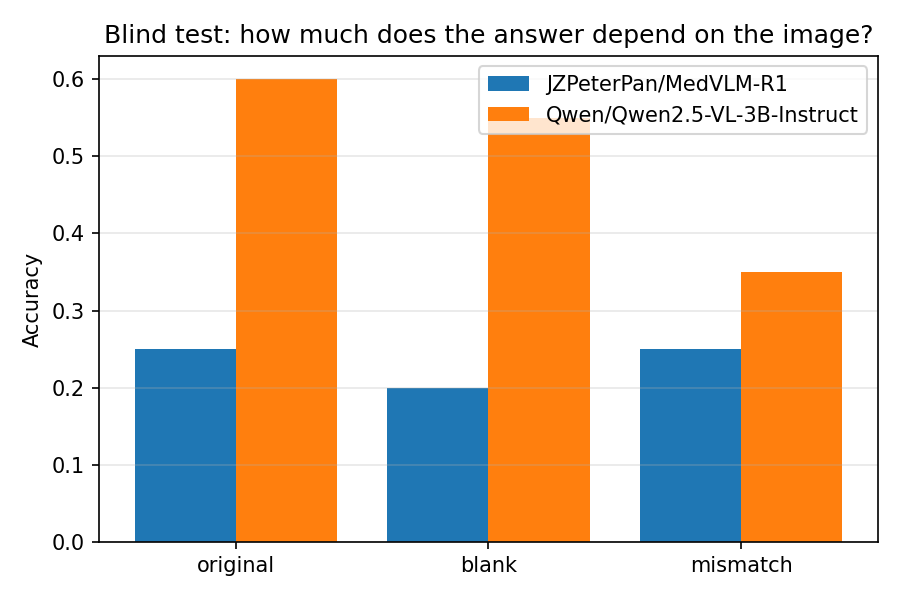
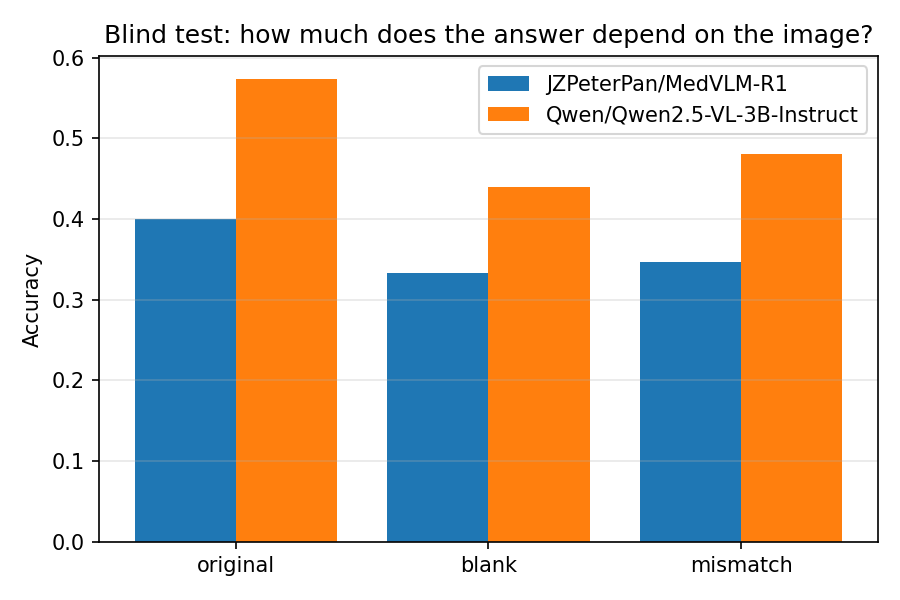
[A] real results (blind_test): vqa_rad (medvlm_r1 vs qwen25_vl_3b)

diff --git a/fmr/dashboard/data.js b/fmr/dashboard/data.js
@@ -1,6 +1,6 @@
 // Auto-generated by scripts/make_dashboard.py — do not edit by hand.
 window.FMR_DATA = {
- "generated_at": "2026-07-03T12:06:46",
+ "generated_at": "2026-07-03T12:48:55",
  "has_real": true,
  "default_source": "real:vqa_rad",
  "sources": {
@@ -19007,21 +19007,21 @@ window.FMR_DATA = {
    "blind_test": {
     "dataset": "vqa_rad",
     "split": "test",
-    "n": 20,
+    "n": 75,
     "models": {
      "medvlm_r1": {
       "name": "JZPeterPan/MedVLM-R1",
       "is_reasoning": true,
       "accuracy": {
-       "original": 0.25,
-       "blank": 0.2,
-       "mismatch": 0.25
+       "original": 0.4,
+       "blank": 0.3333333333333333,
+       "mismatch": 0.3466666666666667
       },
-      "blind_gap": 0.04999999999999999,
-      "mismatch_gap": 0.0,
+      "blind_gap": 0.06666666666666671,
+      "mismatch_gap": 0.053333333333333344,
       "flip_rate": {
-       "blank": 0.3,
-       "mismatch": 0.55
+       "blank": 0.5466666666666666,
+       "mismatch": 0.49333333333333335
       },
       "iou_vs_step_index": {},
       "signal_b_vs_step_index": {
@@ -19051,7 +19051,11 @@ window.FMR_DATA = {
        "23": 0.5,
        "24": 0.5,
        "25": 0.5,
-       "26": 0.5
+       "26": 0.5,
+       "27": 0.5,
+       "28": 0.5,
+       "29": 0.5,
+       "30": 0.5
       },
       "grounding_drift_slope": 0.0
      },
@@ -19059,15 +19063,15 @@ window.FMR_DATA = {
       "name": "Qwen/Qwen2.5-VL-3B-Instruct",
       "is_reasoning": false,
       "accuracy": {
-       "original": 0.6,
-       "blank": 0.55,
-       "mismatch": 0.35
+       "original": 0.5733333333333334,
+       "blank": 0.44,
+       "mismatch": 0.48
       },
-      "blind_gap": 0.04999999999999993,
-      "mismatch_gap": 0.25,
+      "blind_gap": 0.13333333333333336,
+      "mismatch_gap": 0.09333333333333338,
       "flip_rate": {
-       "blank": 0.5,
-       "mismatch": 0.5
+       "blank": 0.4666666666666667,
+       "mismatch": 0.30666666666666664
       },
       "iou_vs_step_index": {},
       "signal_b_vs_step_index": {
